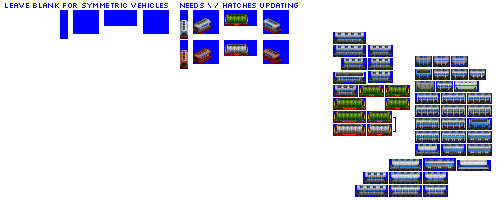
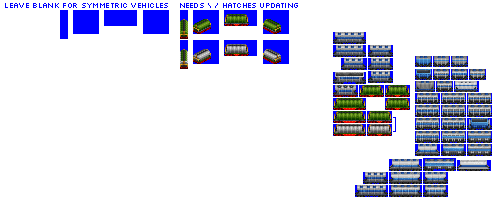
Change: sprites complete for gen 5B and gen 6B covered hopper cars

diff --git a/src/vehicles/covered_hopper_cars.py b/src/vehicles/covered_hopper_cars.py
@@ -57,7 +57,7 @@ def main():
                                       base_numeric_id=1240,
                                       gen=5,
                                       subtype='B',
-                                      sprites_complete=False)
+                                      sprites_complete=True)
 
     consist.add_unit(type=FreightCar,
                      chassis='4_axle_filled_24px')
@@ -87,7 +87,7 @@ def main():
                                       base_numeric_id=3040,
                                       gen=6,
                                       subtype='B',
-                                      sprites_complete=False)
+                                      sprites_complete=True)
 
     consist.add_unit(type=FreightCar,
                      chassis='4_axle_filled_24px')
